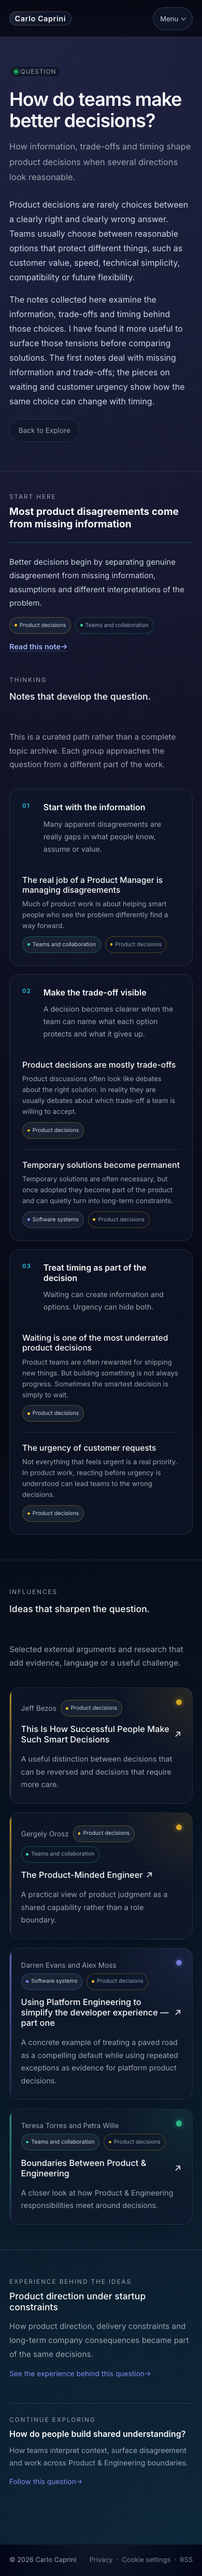
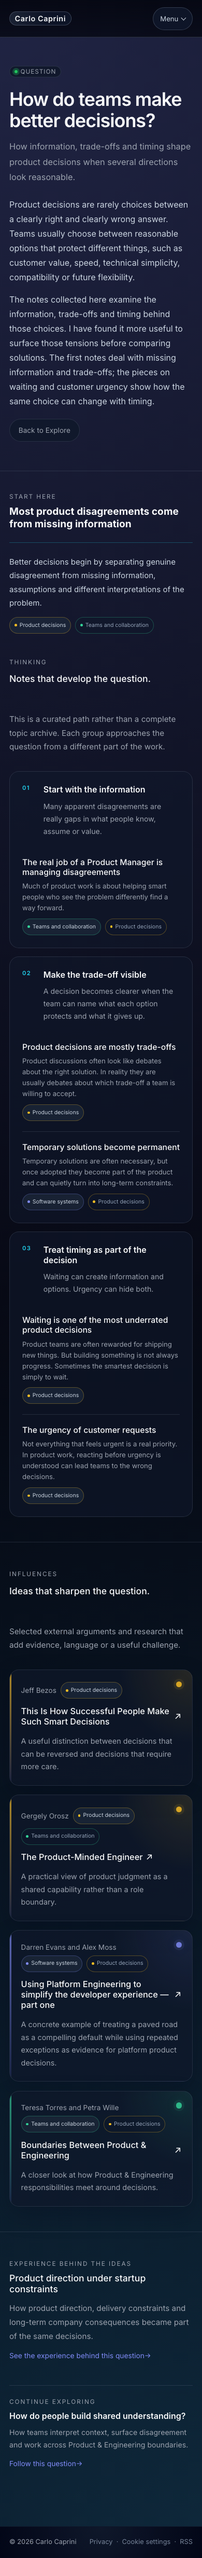
refactor: make Question entry titles actionable

diff --git a/tests/browser/editorial-journeys.spec.js b/tests/browser/editorial-journeys.spec.js
@@ -212,10 +212,11 @@ test("question pages connect Thinking, Influences and Experience", async ({ page
   await expect(entryPoint).toHaveCSS("background-image", "none");
   await expect(entryPoint).toHaveCSS("border-radius", "0px");
   await expect(entryPoint.locator(".content-topic-list a")).toHaveCount(0);
-  const entryLink = entryPoint.getByRole("link", { name: "Read this note: Most product disagreements come from missing information" });
-  await expect(entryLink).toHaveClass(/section-link/);
+  const entryLink = entryPoint.getByRole("link", { name: "Most product disagreements come from missing information", exact: true });
+  await expect(entryLink).toHaveClass(/question-entry-title-link/);
   await expect(entryLink).toHaveAttribute("href", "/thinking/most-product-disagreements-come-from-missing-information/");
   await expect(entryLink).toHaveAttribute("data-analytics-link-context", "question_entry_point");
+  await expect(entryPoint.getByText("Read this note", { exact: true })).toHaveCount(0);
   await expect(page.locator('a[href="/thinking/most-product-disagreements-come-from-missing-information/"]')).toHaveCount(1);
   await expect(page.getByRole("heading", { name: "Notes that develop the question." })).toBeVisible();
   await expect(page.getByRole("heading", { name: "Ideas that sharpen the question." })).toBeVisible();
@@ -253,7 +254,7 @@ test("every Question exposes its canonical entry point once", async ({ page }) =
     await page.goto(`/explore/${question}/`);
     const entryPoint = page.locator(".question-entry-point");
     await expect(entryPoint.getByRole("heading", { name: title })).toBeVisible();
-    await expect(entryPoint.getByRole("link", { name: `Read this note: ${title}` })).toHaveAttribute("href", href);
+    await expect(entryPoint.getByRole("link", { name: title, exact: true })).toHaveAttribute("href", href);
     await expect(page.locator(`a[href="${href}"]`)).toHaveCount(1);
   }
 });

diff --git a/_layouts/question.html b/_layouts/question.html
@@ -33,14 +33,15 @@ layout: default
       <article class="question-entry-point">
         <div class="question-entry-heading">
           <div class="section-eyebrow">Start here</div>
-          <h2 id="question-entry-title">{{ entry_note.title }}</h2>
+          <h2 id="question-entry-title">
+            <a class="question-entry-title-link" href="{{ entry_note.url | relative_url }}" data-analytics-event="note_open" data-analytics-note-id="{{ entry_note.url | escape }}" data-analytics-question-id="{{ question.slug | escape }}" data-analytics-link-context="question_entry_point">{{ entry_note.title }}</a>
+          </h2>
         </div>
         <div class="question-entry-content">
           <p>{{ question.entry_point.reason }}</p>
           <span class="content-topic-list" aria-label="Topics">
             {% include content-topic-items.html topics=entry_note.topics %}
           </span>
-          <a class="section-link question-entry-link" href="{{ entry_note.url | relative_url }}" aria-label="Read this note: {{ entry_note.title | escape }}" data-analytics-event="note_open" data-analytics-note-id="{{ entry_note.url | escape }}" data-analytics-question-id="{{ question.slug | escape }}" data-analytics-link-context="question_entry_point">Read this note <span aria-hidden="true">→</span></a>
         </div>
       </article>
     </div>

diff --git a/_includes/styles/thinking-and-explore.css b/_includes/styles/thinking-and-explore.css
@@ -546,6 +546,15 @@ a.content-topic-link:hover {
   line-height: 1.25;
 }
 
+.question-entry-title-link {
+  color: inherit;
+  text-decoration: none;
+}
+
+.question-entry-title-link:hover {
+  color: #a5b4fc;
+}
+
 .question-entry-content {
   padding-left: 2.5rem;
   border-left: 1px solid var(--brand-accent-border);
@@ -561,11 +570,6 @@ a.content-topic-link:hover {
 
 .question-entry-content .content-topic-list {
   margin-top: 0.85rem;
-}
-
-.question-entry-content .question-entry-link {
-  margin-top: 1rem;
-  font-weight: 600;
 }
 
 .question-note-groups {

diff --git a/docs/design-system.md b/docs/design-system.md
@@ -519,10 +519,11 @@ Keep:
 - explicit Explore entry points from Home, Thinking and Influences
 - three mature Questions presented as editorial paths, not dashboard tiles
 - `Start here` as the canonical label for editorial starting points: Home and Thinking pair it with `Selected notes`, while Explore pairs it with the single Note recommended for that Question
-- one explicit recommended Note per Question: Explore names it as compact supporting text inside the existing Question link, while the Question page presents its title, editorial rationale and one reading CTA before the grouped path
+- one explicit recommended Note per Question: Explore names it as compact supporting text inside the existing Question link, while the Question page presents its linked title and editorial rationale before the grouped path
 - contextual selection without false equivalence: Home and Thinking reuse the canonical global Start Here list, while each Question owns the one Note that best begins its specific path
 - the recommended Note presented as an editorial split on the page surface, with a vertical rule on desktop and a horizontal rule on smaller screens; it is not a card, featured panel or second hero
 - a recommended-Note title one restrained step above the standard section-title scale, because it names the content to read rather than another page section; it must remain clearly below hero scale
+- the recommended Note title as the sole reading action, matching the title-link convention used by Home, Thinking and other Note lists; rationale and Topic metadata remain non-interactive
 - the recommended Note's Topic chips as static metadata on the Question page; they identify the Note rather than the Question and remain non-interactive so they do not introduce a competing navigation choice
 - compact numbered Series rows between Questions and Topics, using Topic color only as an orientation marker
 - one dedicated page per Question, with grouped notes, selected Influences, an Experience bridge and one continuation path
@@ -543,6 +544,7 @@ Avoid:
 - graph-like decoration without navigational value
 - repeating the recommended Note again inside the grouped Question path
 - giving the recommended Note a separate panel, gradient, Topic-colored background or oversized CTA
+- adding a separate generic reading CTA when the recommended Note title already names and links to the destination
 - introducing synonyms such as `Recommended start` or `Recommended starting point` for the same editorial gesture
 - chronological emphasis
 - search controls until the content volume justifies them
